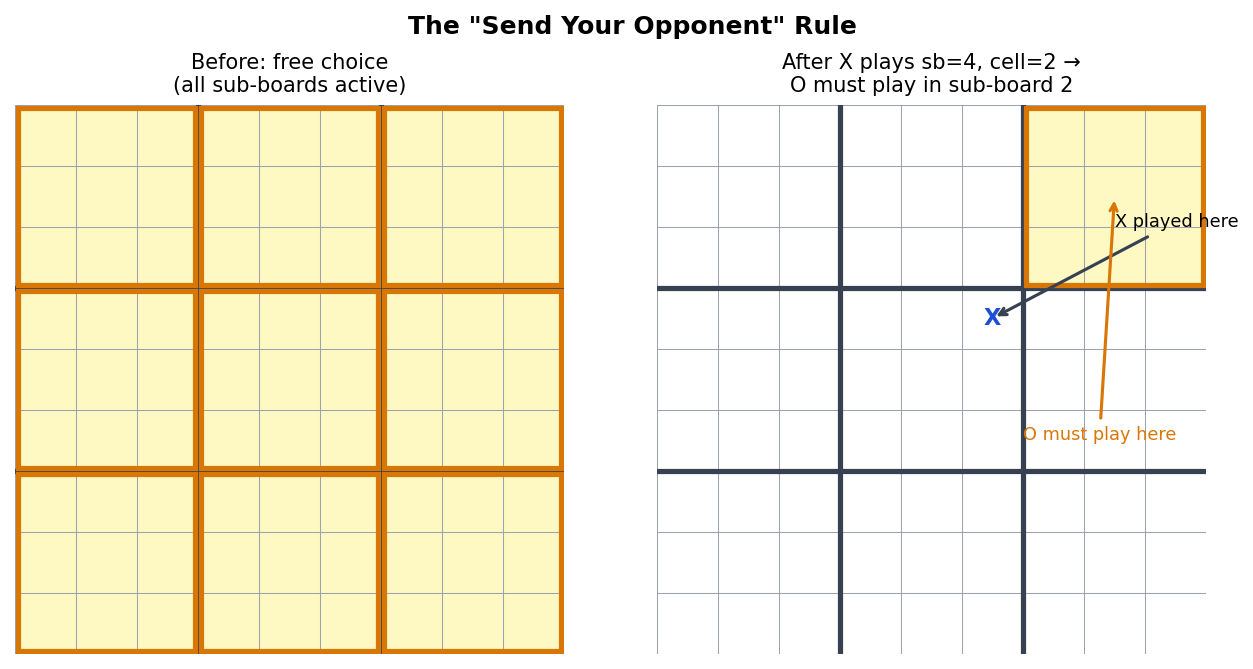
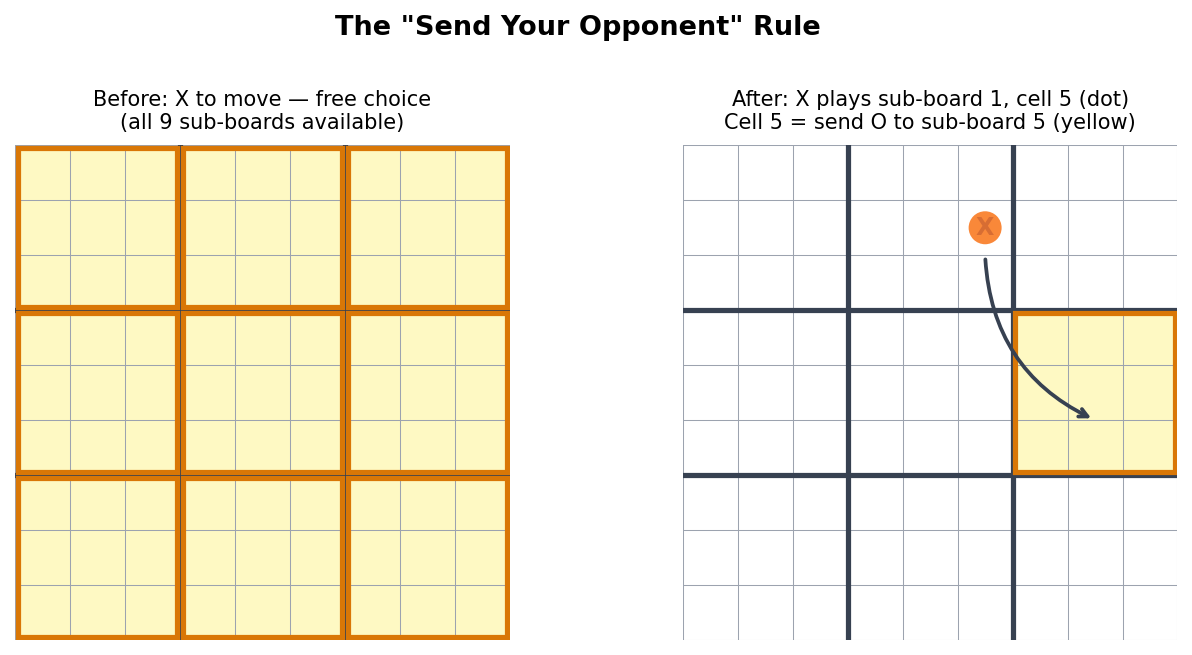
Update Substack essays and figures; optimize training self-play

diff --git a/04_training/self_play.py b/04_training/self_play.py
@@ -246,6 +246,7 @@ def play_vs_random_game(
     network: 'UltimateTTTNetwork',
     num_simulations: int = 200,
     device: str = 'cpu',
+    network_player: int = 1,
 ) -> GameRecord:
     """Play one game: network (player1) vs random player.
 
@@ -253,14 +254,15 @@ def play_vs_random_game(
     This generates data where the network can LEARN to win,
     breaking the self-play Nash equilibrium of always drawing.
 
-    IMPORTANT: Only records the NETWORK's moves (player 1) as training data.
+    IMPORTANT: Only records the NETWORK's moves as training data.
     Recording random player moves would teach the policy head that uniform
     random play is correct, which is the opposite of what we want.
 
     Args:
-        network: Current network (plays as player1).
+        network: Current network.
         num_simulations: MCTS simulations per move.
         device: Compute device.
+        network_player: 1 to go first, -1 to go second.
 
     Returns:
         Complete GameRecord with value/score/ownership targets.
@@ -284,7 +286,7 @@ def play_vs_random_game(
     move_records: list[MoveRecord] = []
 
     while not state.is_terminal:
-        if state.current_player == 1:
+        if state.current_player == network_player:
             # Network's turn — use MCTS with greedy play to maximize wins
             root = run_mcts(state, network, num_simulations=num_simulations,
                             device=device)
@@ -329,6 +331,8 @@ def play_vs_random_game(
 
     for rec in move_records:
         cp = rec.current_player
+        # From the network's perspective, we still want +1 if it won
+        # wait, value_target is from current_player's perspective.
         rec.value_target = float(winner * cp) if winner != 0 else 0.0
         own_wins = np.sum(final_results == cp)
         opp_wins = np.sum(final_results == -cp)
@@ -351,6 +355,7 @@ def play_vs_best_game(
     best_network: 'UltimateTTTNetwork',
     num_simulations: int = 200,
     device: str = 'cpu',
+    network_player: int = 1,
 ) -> GameRecord:
     """Play one game: current network vs frozen best_model.
 
@@ -387,7 +392,7 @@ def play_vs_best_game(
 
     while not state.is_terminal:
         # Choose network based on current player
-        net = network if state.current_player == 1 else best_network
+        net = network if state.current_player == network_player else best_network
 
         # Run MCTS with some exploration (temperature 0.5) for diversity
         root = run_mcts(state, net, num_simulations=num_simulations,
@@ -449,22 +454,22 @@ def generate_mixed_batch(
     network: 'UltimateTTTNetwork',
     num_self_play: int = 20,
     num_vs_random: int = 0,
+    num_vs_best: int = 0,
+    best_network: 'UltimateTTTNetwork' = None,
     num_simulations: int = 200,
     temperature_threshold: int = 30,
     device: str = 'cpu',
 ) -> list[GameRecord]:
     """Generate a mixed batch of self-play data.
 
-    90% vs random opponent (teaches the network to WIN — breaks the draw equilibrium).
-    10% pure self-play (teaches stability and consolidation).
-
-    Only network moves are recorded from vs-random games, so the policy head
-    never sees random uniform distributions as training targets.
+    Mix of pure self-play, vs random opponent, and vs best checkpoint.
 
     Args:
         network: Current network.
-        num_self_play: Number of pure self-play games (default: 2).
-        num_vs_random: Number of games vs random opponent (default: 18).
+        num_self_play: Number of pure self-play games.
+        num_vs_random: Number of games vs random opponent.
+        num_vs_best: Number of games vs best opponent.
+        best_network: The best network checkpoint (if available).
         num_simulations: MCTS simulations per move.
         device: Compute device.
 
@@ -480,10 +485,18 @@ def generate_mixed_batch(
         )
         records.append(record)
 
-    # 2. Network vs random player (90%) — only network moves recorded
+    # 2. Network vs random player — only network moves recorded
     for i in range(num_vs_random):
-        record = play_vs_random_game(network, num_simulations, device=device)
+        net_p = 1 if i % 2 == 0 else -1
+        record = play_vs_random_game(network, num_simulations, device=device, network_player=net_p)
         records.append(record)
+        
+    # 3. Network vs best checkpoint
+    if num_vs_best > 0 and best_network is not None:
+        for i in range(num_vs_best):
+            net_p = 1 if i % 2 == 0 else -1
+            record = play_vs_best_game(network, best_network, num_simulations, device=device, network_player=net_p)
+            records.append(record)
 
     # Shuffle records so the network sees mixed data in each batch
     import random

diff --git a/04_training/trainer.py b/04_training/trainer.py
@@ -44,11 +44,12 @@ class TrainingConfig:
 
     All hyperparameters with justified defaults.
     """
-    # Self-play
-    games_per_iteration:   int   = 100
+    # Self-play mix
+    num_self_play:         int   = 10
+    num_vs_random:         int   = 5
+    num_vs_best:           int   = 5
     num_simulations:       int   = 800
     temperature_threshold: int   = 30
-    self_play_with_best:   bool  = True
 
     # Training
     batch_size:            int   = 256
@@ -153,7 +154,7 @@ def train(config: TrainingConfig) -> None:
 
     # Auto-resume from latest checkpoint
     import glob
-    checkpoints = sorted(glob.glob(os.path.join(config.checkpoint_dir, '*.pt')))
+    checkpoints = sorted(glob.glob(os.path.join(config.checkpoint_dir, 'checkpoint_iter*.pt')))
     iteration = 0
     if checkpoints:
         latest_cp = checkpoints[-1]
@@ -192,8 +193,15 @@ def train(config: TrainingConfig) -> None:
         else:
             print(f"  WARNING: pretrain_checkpoint not found: {config.pretrain_checkpoint}")
 
+    # Keep a running best_net model to play against
+    best_net = UltimateTTTNetwork(
+        channels=config.channels, num_blocks=config.num_blocks
+    ).to(config.device)
+    best_net.load_state_dict(best_network_state)
+    best_net.eval()
+
     print(f"Starting training with config:")
-    print(f"  MCTS device: {config.device} | Train device: {train_device}")
+    print(f"  Mcripts device: {config.device} | Train device: {train_device}")
     print(f"  Network: {config.channels}ch x {config.num_blocks}blocks")
     num_params = sum(p.numel() for p in network.parameters())
     print(f"  Parameters: {num_params:,}")
@@ -203,16 +211,15 @@ def train(config: TrainingConfig) -> None:
             iteration += 1
             iter_start = time.time()
 
-            # 1. SELF-PLAY — 100% pure self-play
-            # We break the draw equilibrium via anti-draw value shaping and
-            # increased Dirichlet noise / temperature exploration.
+            # 1. SELF-PLAY
             network.eval()
-            num_self = config.games_per_iteration
-            print(f"[Iter {iteration}] Self-play: {num_self}x pure self-play")
+            print(f"[Iter {iteration}] Self-play: {config.num_self_play} SP, {config.num_vs_random} vs Rand, {config.num_vs_best} vs Best")
             records = generate_mixed_batch(
                 network=network,
-                num_self_play=num_self,
-                num_vs_random=0,
+                num_self_play=config.num_self_play,
+                num_vs_random=config.num_vs_random,
+                num_vs_best=config.num_vs_best,
+                best_network=best_net,
                 num_simulations=config.num_simulations,
                 temperature_threshold=config.temperature_threshold,
                 device=config.device,
@@ -314,6 +321,7 @@ def train(config: TrainingConfig) -> None:
                     # Load the stored best_model.pt's win rate vs random as baseline
                     if win_rate > 0.55 and win_rate > best_random_win_rate:
                         best_network_state = clone_state_dict(network.state_dict())
+                        best_net.load_state_dict(best_network_state)
                         best_random_win_rate = win_rate
                         path = save_checkpoint(network, optimizer, iteration,
                                                win_rate, config.checkpoint_dir)

diff --git a/eval_random.py b/eval_random.py
@@ -1,0 +1,63 @@
+import os
+import sys
+import torch
+
+sys.path.insert(0, os.path.dirname(os.path.abspath(__file__)))
+
+from importlib import import_module
+network_mod = import_module('02_network.network')
+self_play_mod = import_module('04_training.self_play')
+
+def main():
+    device = 'cpu'
+    
+    net = network_mod.UltimateTTTNetwork(channels=192, num_blocks=10)
+    net.to(device)
+    
+    import glob
+    checkpoints = sorted(glob.glob("checkpoints/large_v3_pure_self_play/checkpoint_iter*.pt"))
+    if not checkpoints:
+        print("No checkpoints found.")
+        return
+        
+    checkpoint_path = checkpoints[-1]
+    if os.path.exists(checkpoint_path):
+        checkpoint = torch.load(checkpoint_path, map_location=device, weights_only=True)
+        net.load_state_dict(checkpoint['network_state_dict'])
+        print(f"Loaded {checkpoint_path}")
+    else:
+        print(f"Checkpoint {checkpoint_path} not found.")
+        return
+        
+    net.eval()
+    
+    num_games = 20
+    wins = 0
+    losses = 0
+    draws = 0
+    
+    print(f"Evaluating {checkpoint_path} against random player for {num_games} games (num_simulations=200)...")
+    
+    with torch.no_grad():
+        for i in range(num_games):
+            net_p = 1 if i < (num_games // 2) else -1
+            record = self_play_mod.play_vs_random_game(net, num_simulations=800, device=device, network_player=net_p)
+            
+            # Record winner from the perspective of the network
+            if record.winner == net_p:
+                wins += 1
+            elif record.winner == -net_p:
+                losses += 1
+            else:
+                draws += 1
+                
+            print(f"Game {i+1}/{num_games}: Network as {'P1' if net_p==1 else 'P2'}, Winner: {record.winner}, Length: {record.game_length}")
+            
+    total = wins + losses + draws
+    win_rate = wins / total
+    print(f"\nResults:")
+    print(f"Wins: {wins}, Losses: {losses}, Draws: {draws}")
+    print(f"Win Rate: {win_rate:.3f}")
+
+if __name__ == "__main__":
+    main()

diff --git a/eval_head_to_head.py b/eval_head_to_head.py
@@ -1,0 +1,48 @@
+import os
+import sys
+import torch
+
+sys.path.insert(0, os.path.dirname(os.path.abspath(__file__)))
+
+from importlib import import_module
+network_mod = import_module('02_network.network')
+arena_mod = import_module('06_evaluation.arena')
+
+def main():
+    device = 'cpu'
+    
+    net_old = network_mod.UltimateTTTNetwork(channels=192, num_blocks=10)
+    net_old.to(device)
+    ckpt_old_path = "checkpoints/pretrain_value.pt"
+    checkpoint_old = torch.load(ckpt_old_path, map_location=device, weights_only=True)
+    net_old.load_state_dict(checkpoint_old['network_state_dict'])
+    net_old.eval()
+    print(f"Loaded old net: {ckpt_old_path}")
+
+    net_new = network_mod.UltimateTTTNetwork(channels=192, num_blocks=10)
+    net_new.to(device)
+    ckpt_new_path = "checkpoints/large_v3_pure_self_play/checkpoint_iter00005_elo0.pt"
+    checkpoint_new = torch.load(ckpt_new_path, map_location=device, weights_only=True)
+    net_new.load_state_dict(checkpoint_new['network_state_dict'])
+    net_new.eval()
+    print(f"Loaded new net: {ckpt_new_path}")
+    
+    num_games = 20
+    num_simulations = 20
+    
+    print(f"\nRunning Arena: New vs Old ({num_games} games, {num_simulations} sims/move)")
+    with torch.no_grad():
+        result = arena_mod.run_arena(
+            network_new=net_new,
+            network_old=net_old,
+            num_games=num_games,
+            num_simulations=num_simulations,
+            device=device
+        )
+        
+    print(f"\nResults (New vs Old):")
+    print(f"New Wins: {result.wins}, Old Wins: {result.losses}, Draws: {result.draws}")
+    print(f"New Win Rate: {result.win_rate:.3f}")
+
+if __name__ == "__main__":
+    main()

diff --git a/train.py b/train.py
@@ -29,12 +29,13 @@ def main():
         channels=192,
         num_blocks=10,
 
-        # Self-play — 100% pure self-play with anti-draw value shaping
+        # Self-play mix
         device='cpu',
-        games_per_iteration=20,
+        num_self_play=10,
+        num_vs_random=5,
+        num_vs_best=5,
         num_simulations=200,
         temperature_threshold=30,  # AlphaZero standard: temp=1 for first 30 moves
-        self_play_with_best=False,
 
         # Training
         batch_size=256,
@@ -78,7 +79,7 @@ def main():
     print("=" * 60)
     print(f"  Device:       {config.device} (MCTS) + MPS (training)")
     print(f"  Network:      {config.channels}ch x {config.num_blocks} blocks ({n_params:,} params)")
-    print(f"  Self-play:    {config.games_per_iteration} games x {config.num_simulations} sims/move")
+    print(f"  Self-play:    {config.num_self_play} SP + {config.num_vs_random} vs Rand + {config.num_vs_best} vs Best ({config.num_simulations} sims/move)")
     print(f"  Training:     {config.batches_per_iteration} batches x B={config.batch_size}")
     print(f"  Arena:        every {config.arena_every_n} iters, {config.arena_games} games")
     print(f"  Buffer:       {config.buffer_capacity:,} capacity")

diff --git a/substack/essay1_what_is_uttt.md b/substack/essay1_what_is_uttt.md
@@ -14,9 +14,15 @@ Ultimate Tic-Tac-Toe fixes this by nesting the game inside itself.
 
 The board is a 3×3 grid of smaller 3×3 grids — nine local boards arranged in a larger global board. Each local board is a standard game of Tic-Tac-Toe. The global board tracks which player has won each local board.
 
+<!-- Figure: figures/fig1_blank_board.png — "The 9 sub-boards of Ultimate Tic-Tac-Toe. Sub-boards are numbered 0–8; each is a standard 3×3 Tic-Tac-Toe grid." -->
+
 The twist is in how moves work. When you place your mark in a square of a local board, the position of that square within its local board determines which local board your opponent must play in next. Put your mark in the top-right square of any local board, and your opponent's next move must be made somewhere in the top-right local board.
 
+<!-- Figure: figures/fig2_send_rule.png — "The 'send your opponent' rule. Left: free choice on the first move — all 9 sub-boards open (yellow). Right: X plays in sub-board 1, cell 5 (orange dot); cell index 5 = centre-right, so O is forced into sub-board 5 (highlighted yellow)." -->
+
 If your opponent is sent to a local board that is already decided (won or drawn), they may play in any open local board of their choosing.
+
+<!-- Figure: figures/fig5_free_choice.png — "The exception: when the rule would send a player to an already-decided sub-board, they get free choice instead. Left: O plays in sub-board 2, centre cell — the rule says to send X to sub-board 4. Right: sub-board 4 is already won by X, so X may play in any of the yellow (open) sub-boards." -->
 
 The game ends when one player wins three local boards in a row on the global board — horizontal, vertical, or diagonal.
 
@@ -34,7 +40,7 @@ There is a related but distinct quantity worth distinguishing. The *game tree* c
 
 What makes Ultimate Tic-Tac-Toe genuinely strategic — and not just tactically complex — is the tension between local and global objectives.
 
-Winning a local board is not automatically good. If you win a local board by placing your mark in a square that sends your opponent to a local board where they can win *their* local board, you may have hurt yourself. Conversely, sometimes the right move is to *lose* a local board intentionally, sending your opponent to a dead board so they can play anywhere — giving up local control to gain global flexibility.
+Winning a local board is not automatically good. If you win a local board by placing your mark in a square that sends your opponent to a local board where they can win *their* local board, you may have hurt yourself. Conversely, sometimes the right move is to *lose* a local board intentionally — not to hand your opponent free choice, but because every cell available to them in their new board would send you somewhere favourable on your next turn. You sacrifice the local contest to constrain where your opponent can redirect you, gaining global flexibility one move later.
 
 This interaction between levels is what makes the game interesting for AI research. The right move in any position depends not just on the current local board but on the global pattern, the opponent's options, and the cascading constraints several moves ahead. It is a game where thinking locally is a guaranteed path to defeat.
 
@@ -51,3 +57,7 @@ That is the question the rest of this series is about.
 ---
 
 *Next: Essay 1b introduces reinforcement learning — the framework that lets an agent improve by interacting with an environment. We will see how the problem of learning from games turns out to have a clean mathematical structure, and why that structure is harder to exploit than it first appears.*
+
+---
+
+*Code: [Notebook 1 — The UTTT Game Engine](https://colab.research.google.com/github/thltsui/UlltimateTicTacToe/blob/Substack/substack/notebook_1_uttt_engine.ipynb) implements everything described here — board representation, the send-your-opponent rule, win detection, and a random-agent tournament — in runnable Python using the production game engine.*

diff --git a/substack/essay1b_rl_background.md b/substack/essay1b_rl_background.md
@@ -124,6 +124,8 @@ This is not a problem that more games will fix. You could play a billion games a
 
 What is needed is a way to *generalise*: to update the value of one state and have that update automatically propagate to similar states. This is what neural networks provide. A neural network parameterises V(s) as a function of the state — shared weights mean that an update for one state influences the estimated values of all similar states. The correction wave becomes, in effect, a gradient that flows through the entire function class at once. We will return to this in later essays. For now, the lesson is: tabular TD learning is theoretically clean but practically unusable at scale.
 
+<!-- Figure: figures/fig4_tensor_channels.png — "The 7-channel tensor encoding of a UTTT position after 5 moves (O to move). Each channel is a 9×9 binary plane. The encoding is always from the current player's perspective: Ch 0 shows O's pieces, Ch 1 shows X's pieces, Ch 2 highlights the sub-board O must play in, Ch 4 shows the sub-board X has already won, and Ch 6 is all-ones because it is O's turn." -->
+
 ## 6. Q-Learning
 
 Rather than estimating V(s), it is often more useful to estimate Q(s, a) — the value of taking action a from state s, then playing optimally thereafter.
@@ -241,3 +243,7 @@ That combination is Monte Carlo Tree Search — and it is the subject of the nex
 ---
 
 *Next: Essay 1c introduces the multi-armed bandit problem and shows how the explore/exploit trade-off that governs slot machines also governs tree search. The UCB formula that solves the bandit problem turns out to be the key ingredient that makes MCTS both principled and practical.*
+
+---
+
+*Code: [Notebook 1 — The UTTT Game Engine](https://colab.research.google.com/github/thltsui/UlltimateTicTacToe/blob/Substack/substack/notebook_1_uttt_engine.ipynb) shows the full 7-channel `encode_state()` function in action, including a live demonstration of each channel's content for a real game position.*

diff --git a/substack/essay1c_bandits_mcts_intro.md b/substack/essay1c_bandits_mcts_intro.md
@@ -102,6 +102,8 @@ By the Banach fixed-point theorem, there is exactly one solution. Without γ < 1
 
 The Gittins index thus provides a deeper account of why γ < 1 matters — one that goes beyond "the Bellman equation needs a contraction." The discount factor is the key that unlocks a beautiful reduction: an intractable K-dimensional optimisation collapses into K independent Bellman equations, each with a unique solution, because the geometric structure of discounting makes the arms separable. Remove γ < 1, and both the reduction and the uniqueness disappear simultaneously.
 
+<!-- Figure: figures/fig3_midgame.png — "A mid-game UTTT position. Blue = sub-board won by X; red = won by O; grey = drawn; yellow = the sub-board the current player is constrained to play in. From this position, the active player must play in the yellow sub-board — a direct consequence of the opponent's last move." -->
+
 ## 4. From Bandits to Trees: PUCT
 
 Now take the bandit problem and put it inside a game tree.
@@ -168,3 +170,7 @@ This is the recursive beauty at the heart of AlphaZero: the Lai-Robbins argument
 ---
 
 *Next: Essay 2 dives into the full AlphaZero MCTS loop — self-play, tree search, and the training pipeline — and shows how these pieces fit together into a system that starts from random play and converges to superhuman performance.*
+
+---
+
+*Code: [Notebook 1 — The UTTT Game Engine](https://colab.research.google.com/github/thltsui/UlltimateTicTacToe/blob/Substack/substack/notebook_1_uttt_engine.ipynb) builds the game engine that MCTS runs on — legal move generation, immutable state transitions, and the random-agent baseline whose limitations motivate everything in this essay.*
